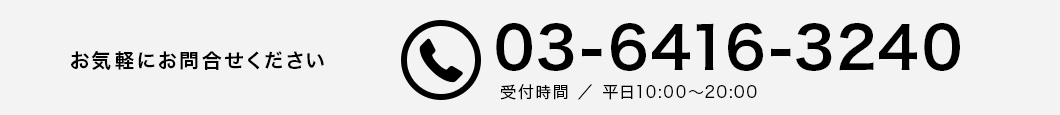
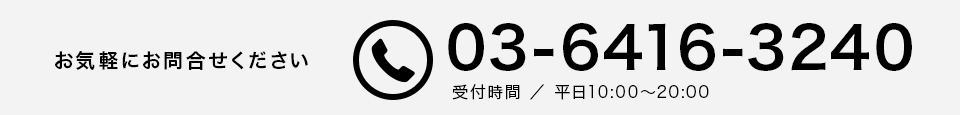
お問合せ

Changed region(s): [[0.0312, 0.1565, 0.9688, 0.887]]

diff --git a/style.css b/style.css
@@ -840,11 +840,6 @@ div#price p span {
 /* 料金・特徴 */
 
 /* お問合せ */
-div#form {
-	width:1060px;
-	margin:0 auto;
-	padding-left:50px;
-}
 div#form p {
 	font-size:18px;
 	line-height:1.9em;
@@ -853,9 +848,54 @@ div#form p {
 div#form img {
 	margin-bottom:50px;
 }
-div#form table {
+div#form table#form {
+	width:960px;
 	margin-bottom:80px;
 }
+div#form table#form th,td {
+	border:1px solid #000000;
+	padding:27px 40px;
+	vertical-align:top;
+}
+div#form table#form th {
+	width:190px;
+	font-weight:normal;
+	font-size:16px;
+	line-height:1.5em;
+	text-align:left;
+	border-right:dotted 1px;
+	border-left:none;
+}
+div#form table#form th span {
+	color:#f41f1f;
+}
+div#form table#form td {
+	border-left:none;
+	border-right:none;
+}
+div#form table#form td.submit {
+	border:none;
+	text-align:center;
+}
+div#form table#form input,textarea {
+	width:100%;
+	height:36px;
+	font-size:18px;
+	line-height:1.5em;
+}
+div#form table#form textarea {
+	height:160px;
+}
+div#form table#form input,textarea {
+	width:100%;
+}
+div#form table#form td.submit input {
+	width:290px;
+	height:80px;
+}
+div#form table#form span.wpcf7-not-valid-tip {
+	display:block;
+	margin-top:10px;}
 /* お問合せ */
 
 

diff --git a/page-form.php b/page-form.php
@@ -11,23 +11,16 @@
  */
 
 get_header(); ?>
-	<header class="entry-header">
-		<?php the_title( '<h1 class="entry-title">', '</h1>' ); ?>
-	</header><!-- .entry-header -->
-<?php
-/*
-Template Name: content-page-form
-*/
-?>
+
 <div id="form">
 <h2 class="mgrb50">電話相談も受付けております</h2>
 <p>以下、ダミー文。制作に関するご質問から、同業様での事例や成果など、どんなことでもお気軽にご相談ください。土日祝日休業日以外は 24時間以内 にご返信いたします。<br>お急ぎの場合は以下の電話でも受け付けておりますのでお気軽にご連絡ください。</p>
-<img src="<?php bloginfo('template_directory');?>/images/form_ill01.png" width="1060" height="115" alt="お気軽にお問合せください 03-6416-3240 受付時間 ／ 平日10:00〜20:00">
+<img src="<?php bloginfo('template_directory');?>/images/form_ill01.png" width="960" height="115" alt="お気軽にお問合せください 03-6416-3240 受付時間 ／ 平日10:00〜20:00">
 
 <h2 class="mgrb50">フォームからのお問合せはこちら</h2>
 <p>以下、ダミー文。制作に関するご質問から、同業様での事例や成果など、どんなことでもお気軽にご相談ください。土日祝日休業日以外は 24時間以内 にご返信いたします。<br>お急ぎの場合は以下の電話でも受け付けておりますのでお気軽にご連絡ください。</p>
 
-<?php echo do_shortcode( '[contact-form-7 id="71" title="お問合せ"]' ); ?>
+<?php echo do_shortcode( '[contact-form-7 id="97" title="お問合せ"]' ); ?>
 </div>
 
 <?php get_footer(); ?>

diff --git a/functions.php b/functions.php
@@ -221,3 +221,9 @@ function get_archives_by_fiscal_year( $args = '' ) {
     );
     return $arcresults;
 }
+
+// Contact Form 7 にショートコードを追加
+function get_mytheme_url() {
+    return get_template_directory_uri();
+}
+wpcf7_add_shortcode('show_mytheme_url', 'get_mytheme_url', true);
